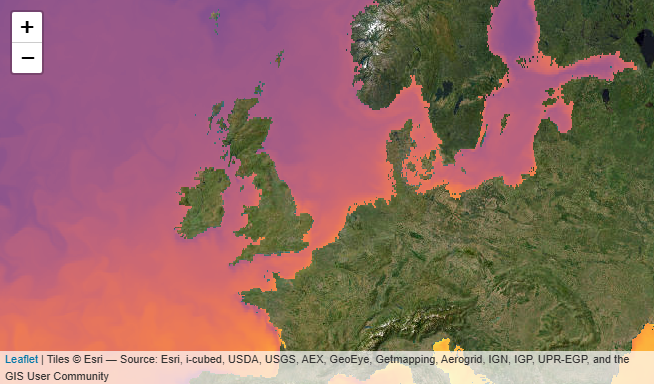
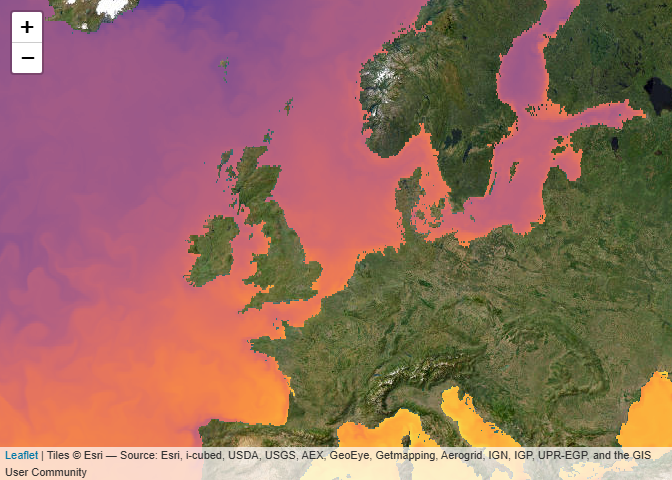
Fixes in README

diff --git a/README.md b/README.md
@@ -189,8 +189,7 @@ leaflet::leaflet() |>
   )
 ```
 
-<div class="leaflet html-widget html-fill-item" id="htmlwidget-c9430a551177879f3c96" style="width:672px;height:480px;"></div>
-<script type="application/json" data-for="htmlwidget-c9430a551177879f3c96">{"x":{"options":{"crs":{"crsClass":"L.CRS.EPSG3857","code":null,"proj4def":null,"projectedBounds":null,"options":{}}},"setView":[[54,3],4,[]],"calls":[{"method":"addProviderTiles","args":["Esri.WorldImagery",null,null,{"errorTileUrl":"","noWrap":false,"detectRetina":false}]},{"method":"addTiles","args":["http://wmts.marine.copernicus.eu/teroWmts/?service=WMTS&version=1.0.0&request=GetTile&tilematrixset=EPSG:3857&style=default&tilematrix={z}&tilerow={y}&tilecol={x}&layer=GLOBAL_ANALYSISFORECAST_PHY_001_024/cmems_mod_glo_phy-thetao_anfc_0.083deg_P1D-m_202406/thetao",null,null,{"styles":"","format":"image/png","transparent":true,"version":"1.1.1"}]}]},"evals":[],"jsHooks":[]}</script>
+![](man/figures/README-leaflet-1.png)<!-- -->
 
 ### Citing the data you use
 
@@ -210,4 +209,6 @@ cms_cite_product("GLOBAL_ANALYSISFORECAST_PHY_001_024")$doi
 
 - [E.U. Copernicus Marine Service
   Information](https://data.marine.copernicus.eu)
-- 
+- [Global Ocean Physics Analysis and Forecast -
+  GLOBAL_ANALYSISFORECAST_PHY_001_024 (2016-10-14);
+  DOI:10.48670/moi-00016](https://doi.org/10.48670/moi-00016)

diff --git a/NEWS.md b/NEWS.md
@@ -1,4 +1,4 @@
-CopernicusMarine v0.2.5.0002
+CopernicusMarine v0.2.5.0003
 -------------
 
  * Decommissioned STAC functions in order to
